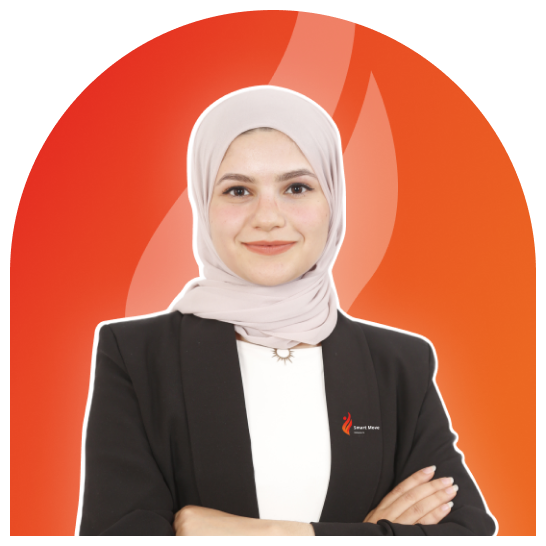
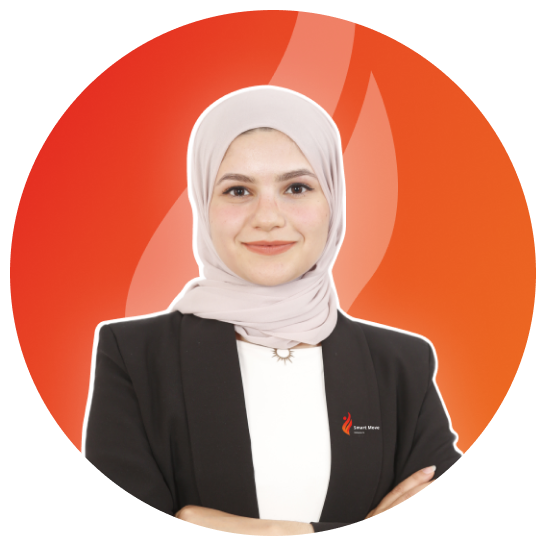
update 4

Changed region(s): [[0.0, 0.5604, 0.4359, 0.9963], [0.5604, 0.5604, 0.9963, 0.9963]]

diff --git a/src/components/templates/MyIntro/MyIntro.scss b/src/components/templates/MyIntro/MyIntro.scss
@@ -29,11 +29,11 @@
 @media screen and (min-width: 768px) {
   .home__content {
     display: grid;
-    grid-template-columns: 1.2fr 0.8fr; /* Text Area slightly larger */
+    grid-template-columns: 1fr 1fr; /* Equal width for better balance */
     text-align: left;
     align-items: center;
     gap: 4rem;
-    padding-top: 4rem; /* More space on desktop */
+    padding-top: 2rem; /* More space on desktop */
   }
 }
 
@@ -157,27 +157,77 @@
 
 .blob-shape {
   position: relative;
-  width: 250px;
-  height: 250px;
+  width: 320px; /* Increased from 280px */
+  height: 320px;
   display: flex;
   justify-content: center;
   align-items: center;
 }
 
+/* React Atom Nucleus (Profile Image) */
 .home__blob {
+  width: 160px; /* Increased from 140px */
+  height: 160px;
+  object-fit: cover;
+  border-radius: 50%; /* Perfect Circle */
+  border: 3px solid var(--first-color);
+  box-shadow: 0 0 20px rgba(var(--hue-color), 98%, 50%, 0.5); /* Glowing Nucleus */
+  z-index: 10;
+  position: relative;
+}
+
+/* Orbit Container (Spins slowly) */
+.orbit-container {
+  position: absolute;
+  top: 0;
+  left: 0;
   width: 100%;
   height: 100%;
-  object-fit: cover;
+  animation: spin-atom 10s linear infinite;
+  pointer-events: none; /* Let clicks pass to image/area */
+}
+
+/* Individual Orbits */
+.react-orbit {
+  position: absolute;
+  top: 50%;
+  left: 50%;
+  width: 100%;
+  height: 35%; /* Eliptical shape */
+  border: 2px solid var(--first-color);
   border-radius: 50%;
-  border: 4px solid var(--first-color);
-  box-shadow: 0 0 30px rgba(252, 62, 13, 0.3); /* Glow */
-  animation: float 6s ease-in-out infinite;
+  transform-origin: center;
+  box-shadow: 0 0 10px rgba(var(--hue-color), 98%, 50%, 0.3);
+  opacity: 0.8;
+}
+
+.orbit-1 {
+  transform: translate(-50%, -50%) rotate(0deg);
+}
+.orbit-2 {
+  transform: translate(-50%, -50%) rotate(60deg);
+}
+.orbit-3 {
+  transform: translate(-50%, -50%) rotate(120deg);
+}
+
+@keyframes spin-atom {
+  0% {
+    transform: rotate(0deg);
+  }
+  100% {
+    transform: rotate(360deg);
+  }
 }
 
 @media screen and (min-width: 1024px) {
   .blob-shape {
-    width: 320px; /* Controlled Max Size */
-    height: 320px;
+    width: 450px; /* Significantly larger on desktop (was 360px) */
+    height: 450px;
+  }
+  .home__blob {
+    width: 220px; /* Larger Nucleus (was 180px) */
+    height: 220px;
   }
 }
 
@@ -210,15 +260,6 @@
 }
 
 /* Animations */
-@keyframes float {
-  0%,
-  100% {
-    transform: translateY(0);
-  }
-  50% {
-    transform: translateY(-15px);
-  }
-}
 
 /* Glow Button (Keep existing) */
 .button.glow-on-hover {

diff --git a/src/components/templates/MyIntro/MyIntro.tsx b/src/components/templates/MyIntro/MyIntro.tsx
@@ -19,7 +19,7 @@ const MyIntro: React.FC<MyIntroProps> = ({ socialLinks, imageSrc, title }) => {
 
   useEffect(() => {
     const typed = new Typed(el.current, {
-      strings: [title, "Frontend Developer", "React Specialist", "UI/UX Enthusiast", "Problem Solver"],
+      strings: ["Javascript Developer", "Software Engineer", "UI/UX Enthusiast", "Problem Solver"],
       typeSpeed: 50,
       backSpeed: 50,
       backDelay: 2000,
@@ -93,6 +93,13 @@ const MyIntro: React.FC<MyIntroProps> = ({ socialLinks, imageSrc, title }) => {
             transition={{ duration: 0.8 }}
           >
             <div className='blob-shape'>
+              {/* React Atom Orbits */}
+              <div className='orbit-container'>
+                <div className='react-orbit orbit-1'></div>
+                <div className='react-orbit orbit-2'></div>
+                <div className='react-orbit orbit-3'></div>
+              </div>
+              {/* Profile Nucleus */}
               <img className='home__blob' src={imageSrc} alt='Profile' />
             </div>
           </motion.div>

diff --git a/src/pages/Home/Home.tsx b/src/pages/Home/Home.tsx
@@ -66,7 +66,7 @@ const Home: React.FC = () => {
         subtitle='Full-stack JS developer'
         socialLinks={SocialLinks}
         navLinks={NavLinks}
-        copyText='2025-Designed and Developed by Shaima Hamila ❤'
+        copyText='2026-Designed and Developed by Shaima Hamila ❤'
       />
       <ToastContainer />
     </>
